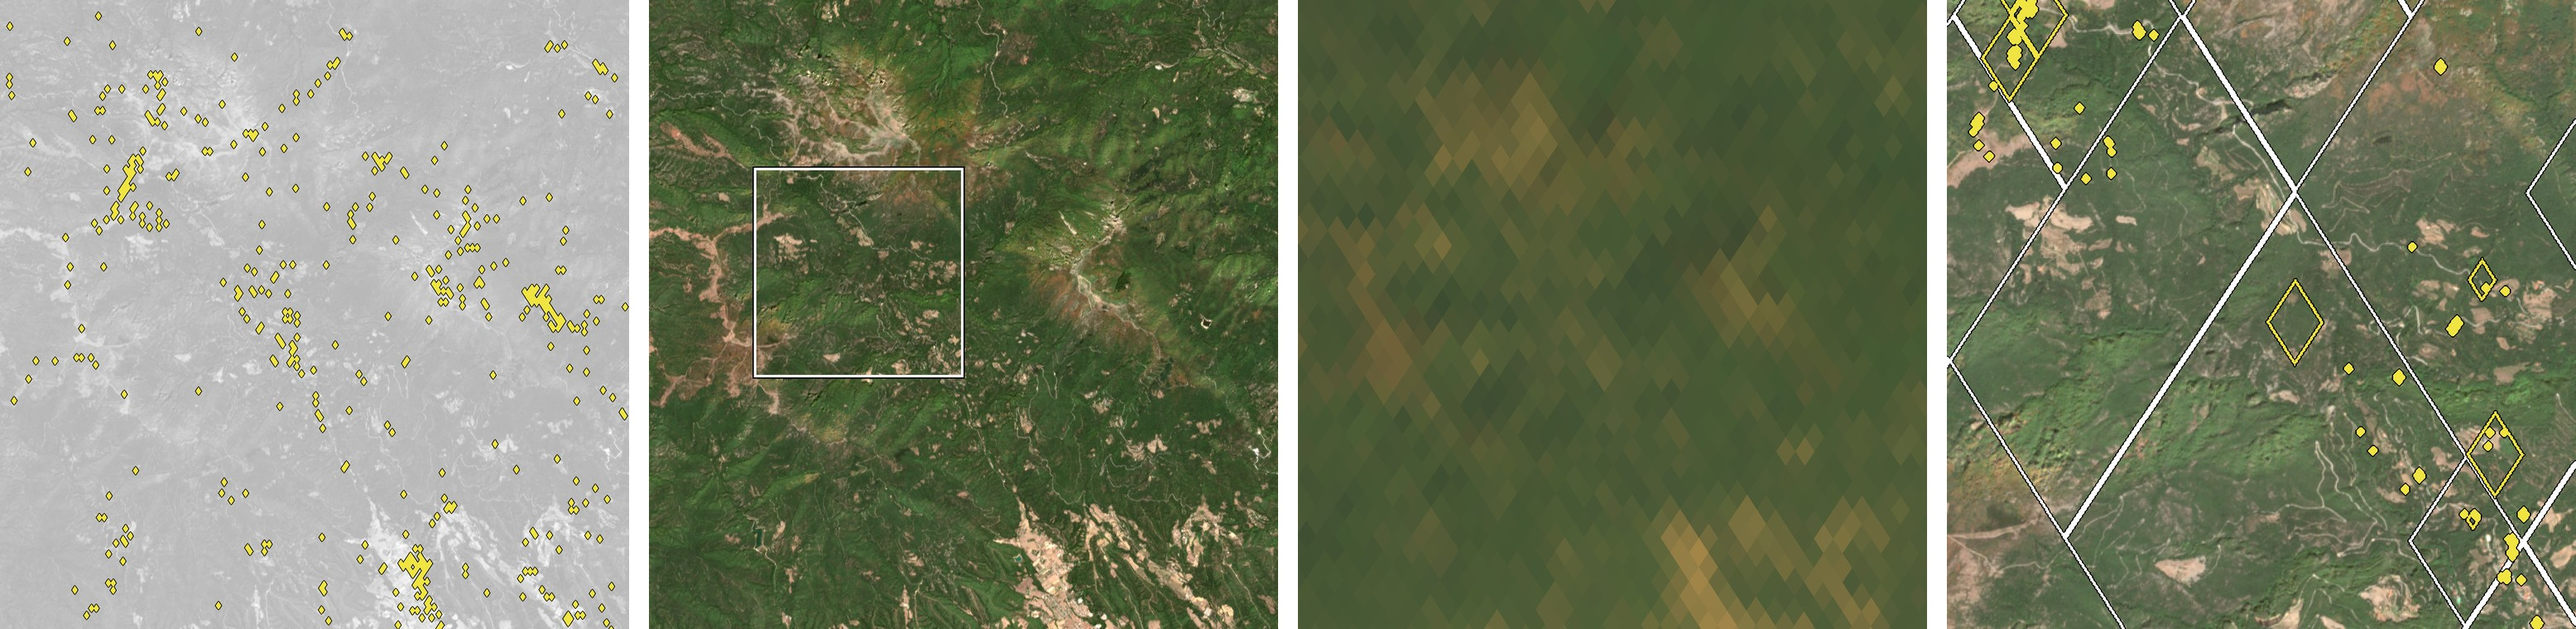
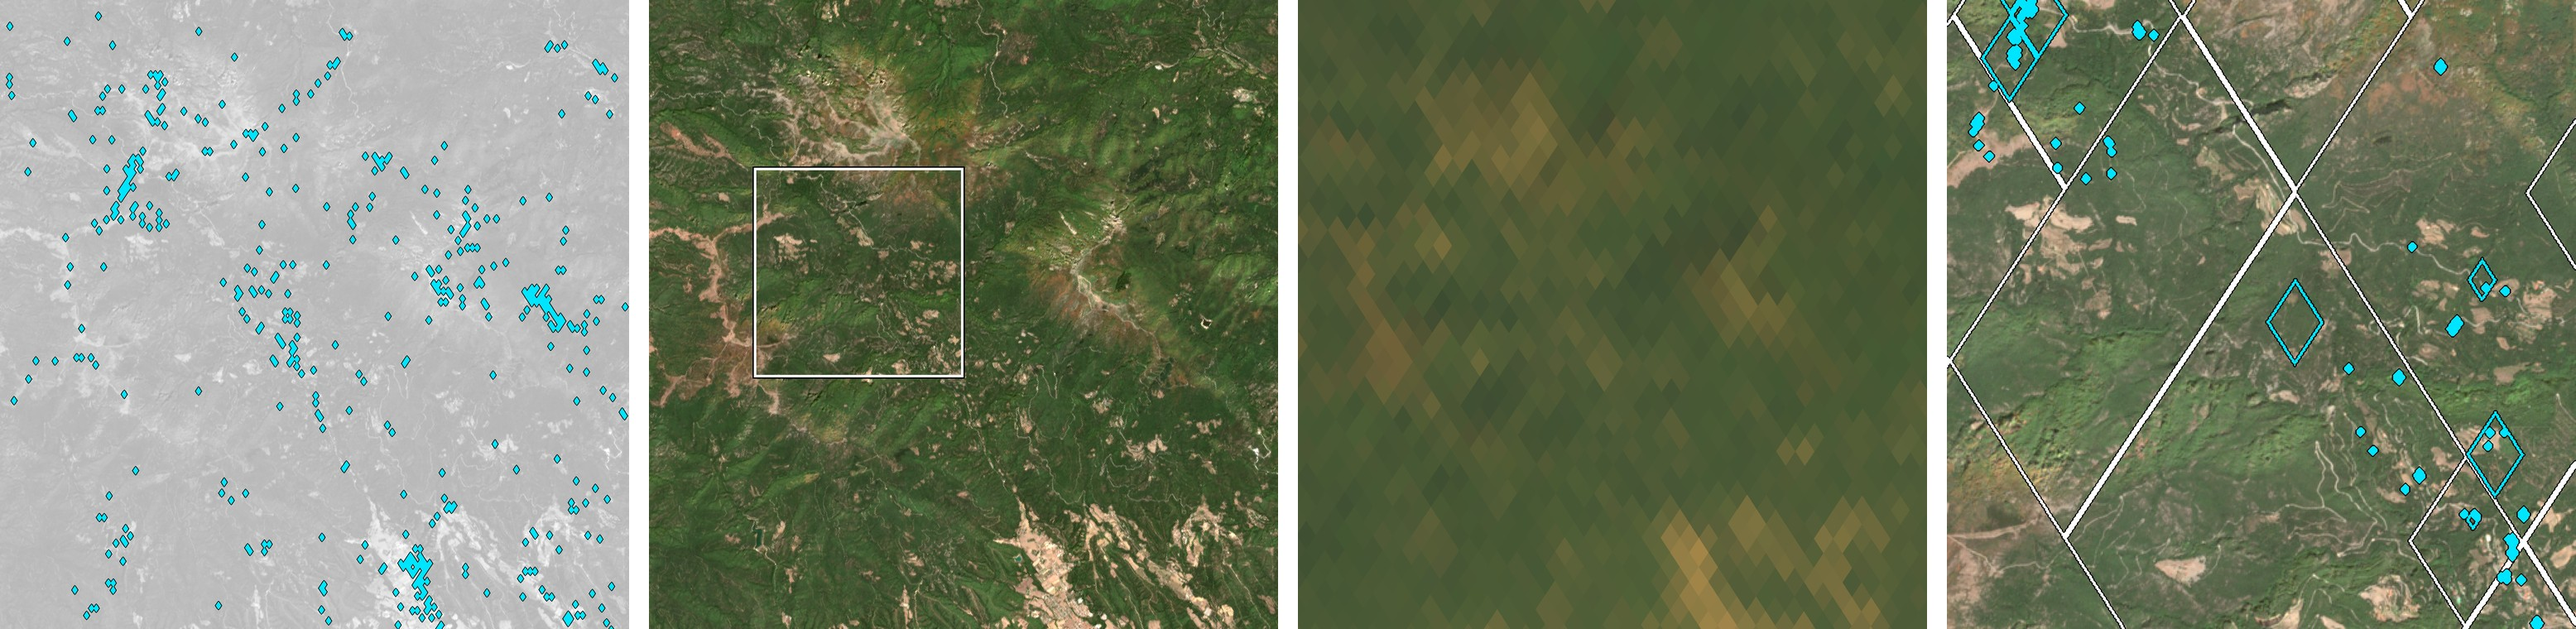
Cyan record markers (readable on vegetation, also with red-green colour blindness); fix lint
- 04_figures: records and precise cells in cyan with a black halo; drop matplotlib.use (lint)
- CITATION.cff, codemeta.json, ro-crate: no paper DOI yet (slides DOI added after the talk)
- myst.yml: add 05_photos

diff --git a/notebooks/04_figures.py b/notebooks/04_figures.py
@@ -26,9 +26,6 @@
 # %%
 import json
 
-import matplotlib
-matplotlib.use("Agg")
-import matplotlib.cm as cm
 import numpy as np
 import xarray as xr
 from PIL import Image
@@ -42,7 +39,7 @@ FIGURES.mkdir(parents=True, exist_ok=True)
 STORE = RESULTS / "montseny_healpix.zarr"
 
 
-RECORD = [240, 228, 66]   # Okabe-Ito yellow: records and precise cells
+RECORD = [0, 229, 255]    # cyan: records and precise cells (distinct from vegetation in hue and brightness)
 WIDE = [255, 255, 255]    # white: cells of ~800 m and more
 HALO = [0, 0, 0]          # black halo around every mark, readable on green and on grey, and in grey-scale
 
@@ -112,8 +109,8 @@ paint(p1, ndimage.binary_dilation(np.isin(C[DEPTH_GROUND], g16.cell_ids.values),
 Image.fromarray(p1.astype("uint8")).save(FIGURES / "panel1_gbif_d16.png")
 
 # panel 4: a 5 km zoom. Each record sits on the cell matching its uncertainty, drawn over Sentinel-2 at 10 m:
-# filled yellow for cells of ~25-50 m (depth 17-18), yellow outlines for ~100-400 m, white for ~800 m-6 km;
-# all with a black halo (colour-blind safe, Okabe-Ito). Cells larger than ~6 km (depth < 10)
+# filled cyan for cells of ~25-50 m (depth 17-18), cyan outlines for ~100-400 m, white for ~800 m-6 km;
+# all with a black halo (distinct from vegetation also for red-green colour blindness). Cells larger than ~6 km (depth < 10)
 # do not fit in the box and are only counted (results/summary.csv).
 import pandas as pd
 rec = pd.read_csv(RESULTS / "records_support.csv")
@@ -154,3 +151,4 @@ strip = Image.new("RGB", (4 * S + 3 * gap, S), "white")
 for i, name in enumerate(["panel1_gbif_d16", "panel2_sentinel2_d18", "panel3_sentinel3_d14", "panel4_bridge_support"]):
     strip.paste(Image.open(FIGURES / f"{name}.png").resize((S, S), Image.LANCZOS), (i * (S + gap), 0))
 strip.save(FIGURES / "bridge_strip.jpg", quality=90)
+strip

diff --git a/README.md b/README.md
@@ -44,7 +44,7 @@ No credentials are needed. The four steps:
 3. `notebooks/03_analysis.py` — the bridge: each GBIF record on the cell matching its uncertainty (finest depth whose
    cell edge is at least twice the stated uncertainty, depth 6–18), Sentinel-2 read on that cell; records without a
    stated uncertainty (290 of 861) are left out, not guessed. `results/records_support.csv`, `results/summary.csv`.
-4. `notebooks/04_figures.py` — the images used in the deck. Markers are colour-blind safe (Okabe-Ito yellow and white,
+4. `notebooks/04_figures.py` — the images used in the deck. Markers are colour-blind safe (cyan and white,
    with a black halo).
 5. `notebooks/05_photos.py` — the three third-party photos of slide 9 (drone, eDNA, LiDAR) from Wikimedia Commons,
    with author, licence and source read from the Commons API into `figures/photo_credits.json`.

diff --git a/index.md b/index.md
@@ -44,7 +44,7 @@ No credentials are needed. The four steps:
 3. `notebooks/03_analysis.py` — the bridge: each GBIF record on the cell matching its uncertainty (finest depth whose
    cell edge is at least twice the stated uncertainty, depth 6–18), Sentinel-2 read on that cell; records without a
    stated uncertainty (290 of 861) are left out, not guessed. `results/records_support.csv`, `results/summary.csv`.
-4. `notebooks/04_figures.py` — the images used in the deck. Markers are colour-blind safe (Okabe-Ito yellow and white,
+4. `notebooks/04_figures.py` — the images used in the deck. Markers are colour-blind safe (cyan and white,
    with a black halo).
 5. `notebooks/05_photos.py` — the three third-party photos of slide 9 (drone, eDNA, LiDAR) from Wikimedia Commons,
    with author, licence and source read from the Commons API into `figures/photo_credits.json`.
